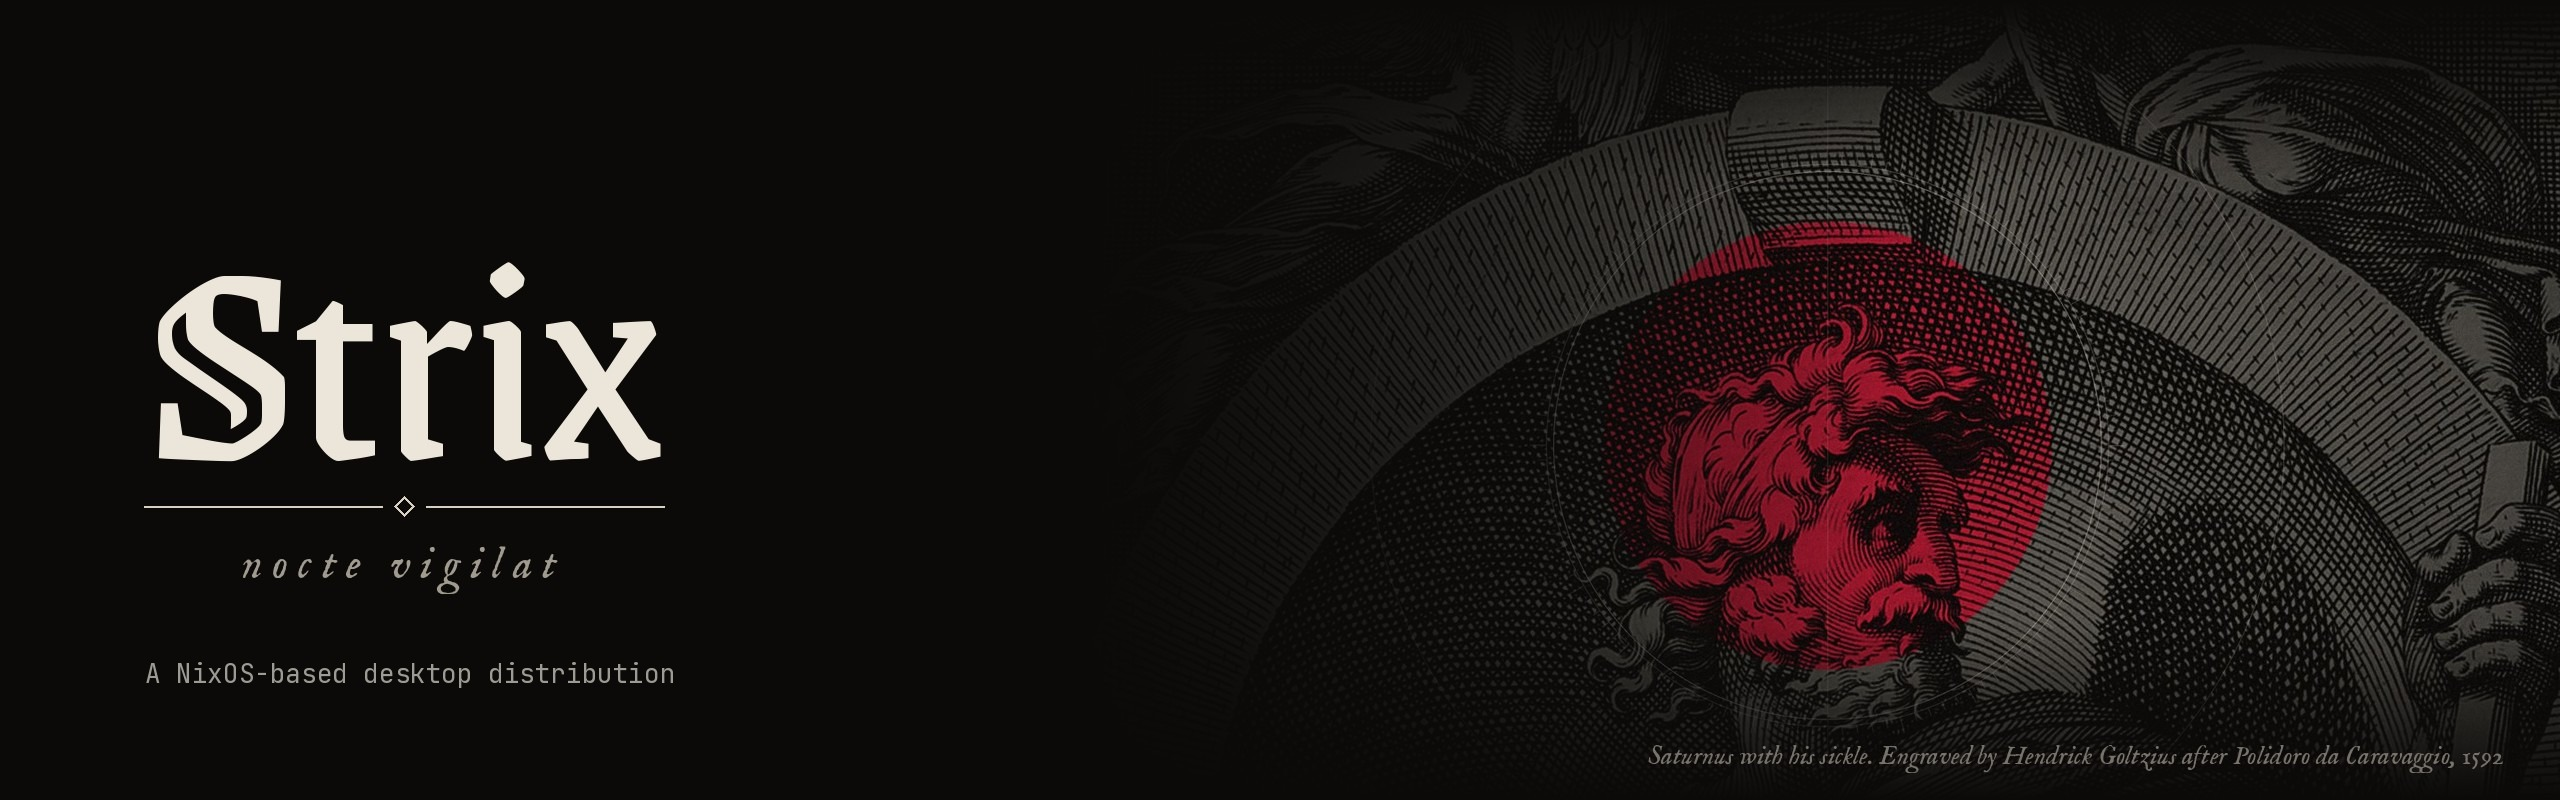
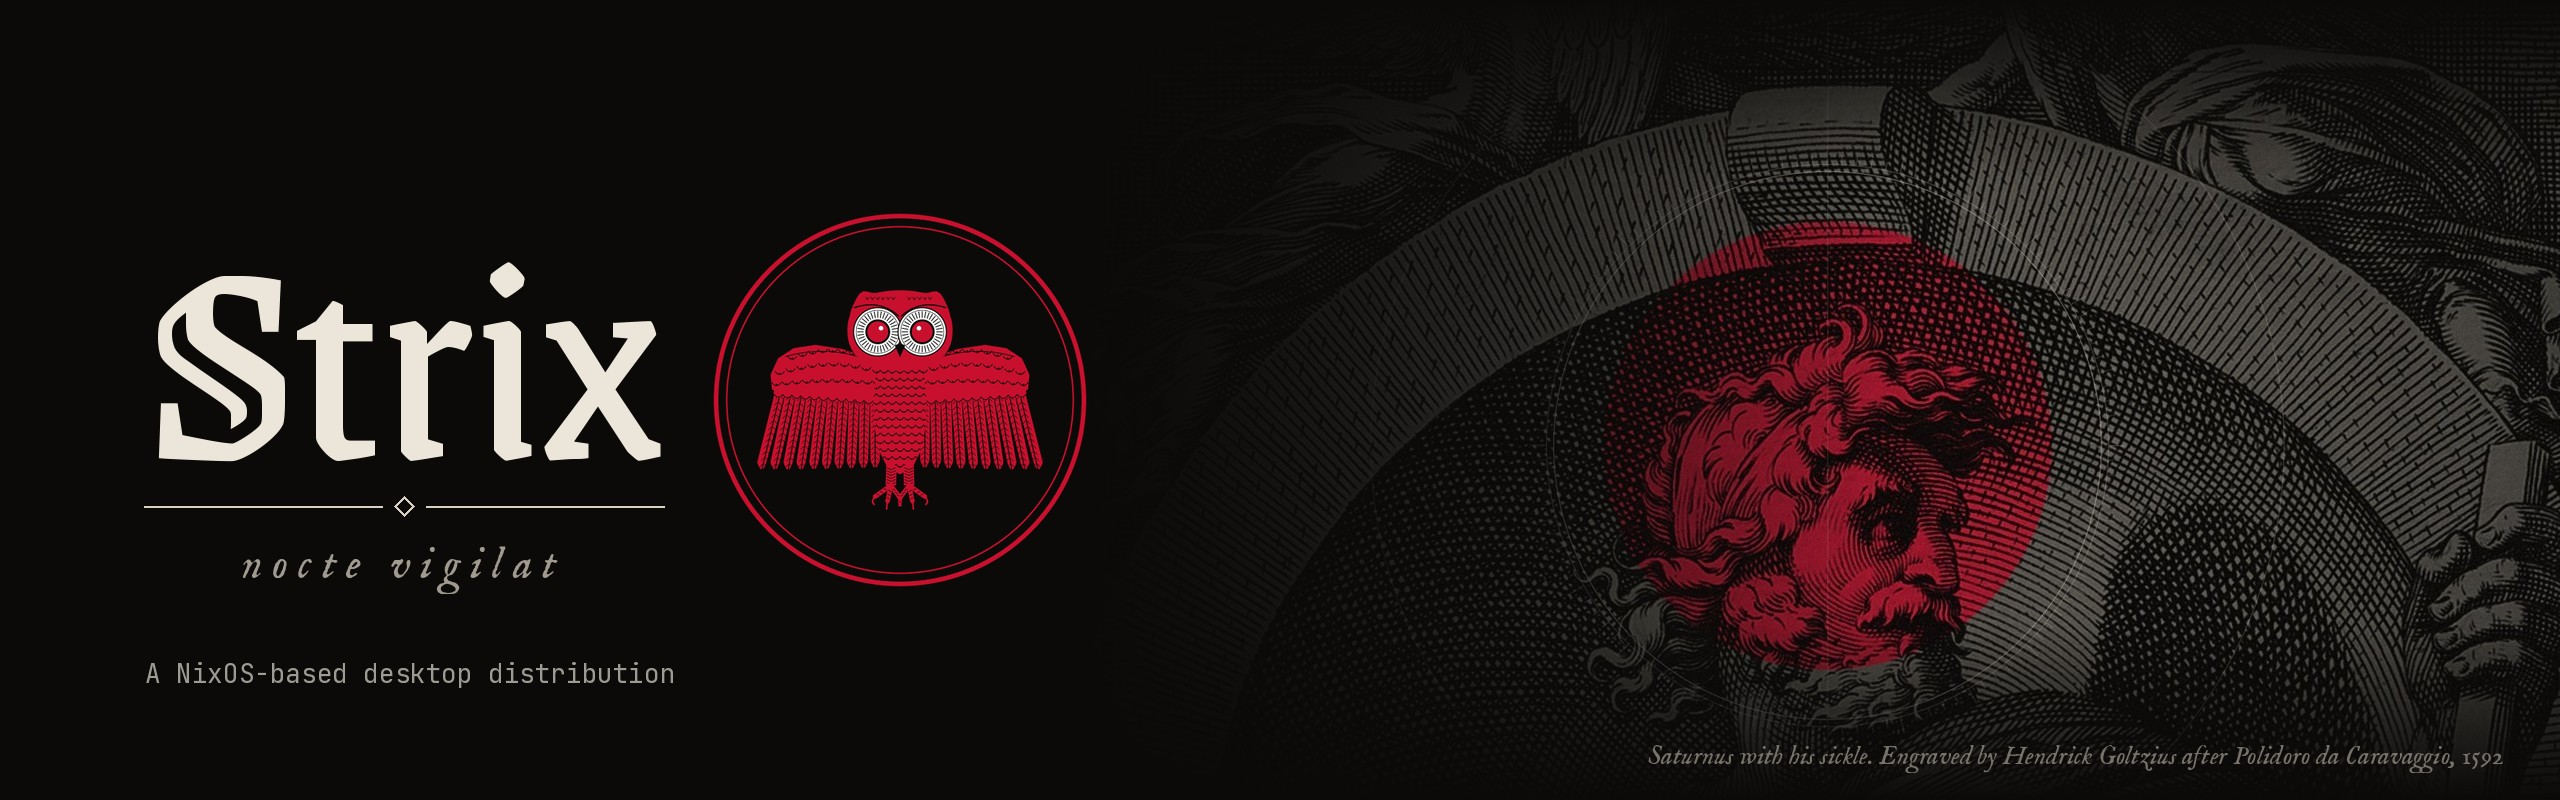
feat(shell): show the owl in the login, in About and in the README
The login has the owl of the machine's god above the clock; it blinks
now and then and at a wrong password. Settings > About shows it beside
the wordmark, a click makes it blink. The README banner carries it in
the colours of Saturnus.

Changed region(s): [[0.2812, 0.3125, 0.4375, 0.6875], [0.3125, 0.6562, 0.4062, 0.75], [0.3125, 0.25, 0.4062, 0.3438]]

diff --git a/shell/greeter/shell.qml b/shell/greeter/shell.qml
@@ -58,6 +58,7 @@ ShellRoot {
             root.busy = false
             root.error = "Wrong name or password"
             pass.shake()
+            owl.blink()
         }
         function onError(error) {
             // After a wrong password Quickshell ends the session itself and greetd answers that
@@ -91,6 +92,21 @@ ShellRoot {
             anchors { left: parent.left; leftMargin: Theme.space8 * 2; verticalCenter: parent.verticalCenter }
             spacing: Theme.space3
             width: 320
+
+            // The owl of the machine's god, as on the lock screen; it blinks now and then and at a
+            // wrong password
+            Owl {
+                id: owl
+                dir: Quickshell.env("STRIX_LOGOS") || ""
+                width: 128
+                height: 128
+                Timer {
+                    interval: 6000 + Math.random() * 6000
+                    running: true
+                    repeat: true
+                    onTriggered: { owl.blink(); interval = 6000 + Math.random() * 6000 }
+                }
+            }
 
             Label { textStyle: "clock"; color: Theme.text; text: Qt.formatDateTime(clock.date, "HH") }
             Label { textStyle: "clock"; color: Theme.textMuted; text: Qt.formatDateTime(clock.date, "mm") }

diff --git a/shell/qml/Settings.qml b/shell/qml/Settings.qml
@@ -328,7 +328,18 @@ Scope {
                         spacing: Theme.space2
 
                         Label { textStyle: "title"; color: Theme.text; text: "About" }
-                        Wordmark {}
+                        Row {
+                            spacing: Theme.space4
+                            // The owl in the colours of the god shown; a click makes it blink
+                            Owl {
+                                id: aboutOwl
+                                dir: Quickshell.env("STRIX_LOGOS") || ""
+                                width: 96
+                                height: 96
+                                MouseArea { anchors.fill: parent; onClicked: aboutOwl.blink() }
+                            }
+                            Wordmark { anchors.verticalCenter: parent.verticalCenter }
+                        }
                         SettingRow { width: parent.width; title: "Version"; text: root.version }
                         SettingRow {
                             width: parent.width

diff --git a/docs/images/README.md b/docs/images/README.md
@@ -2,7 +2,7 @@
 
 | File | What | Source |
 |---|---|---|
-| `banner.jpg` | The wordmark, the motto, one line on what Strix is and the plate of Saturnus | Drawn for this repository from StrixUI's fonts and wallpaper |
+| `banner.jpg` | The wordmark, the motto, one line on what Strix is, the owl in the colours of Saturnus and the plate of Saturnus | Drawn for this repository from StrixUI's fonts and wallpaper; the owl from the theme engine (`theme render owl saturnus`) |
 | `desktop.jpg` | The desktop with the top bar, Saturnus | Rendering `docs/renders/Desktop.png` of [StrixUI](https://github.com/liviosysctl/StrixUI) |
 | `lock-screen.jpg` | The lock screen, Janus | Rendering `docs/renders/LockScreen.png` of StrixUI |
 | `search.jpg` | Search | Rendering `docs/renders/Search.png` of StrixUI |
